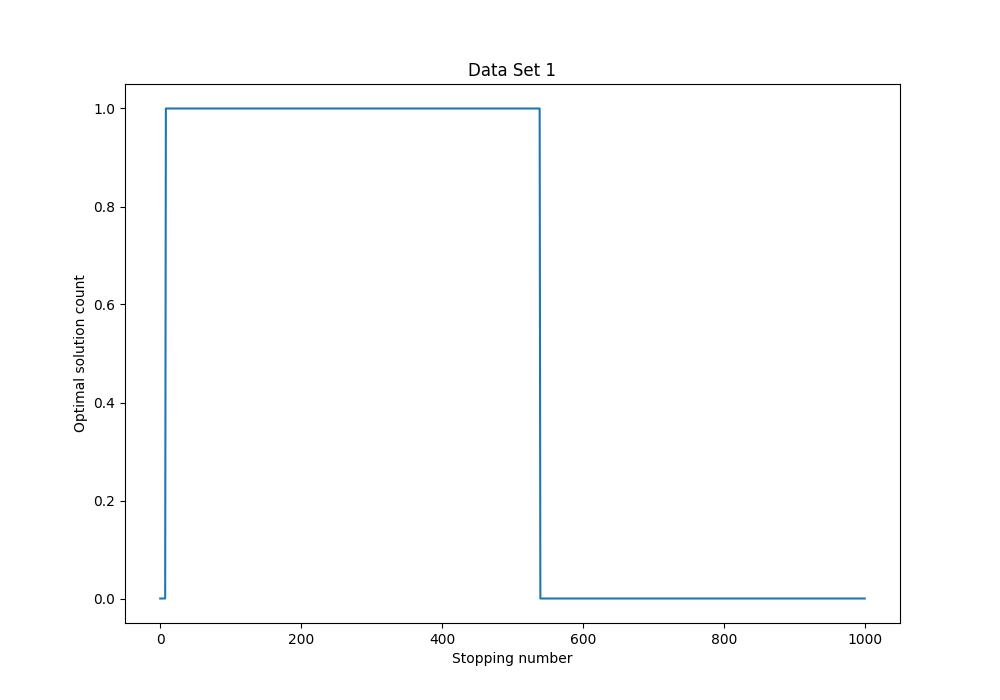
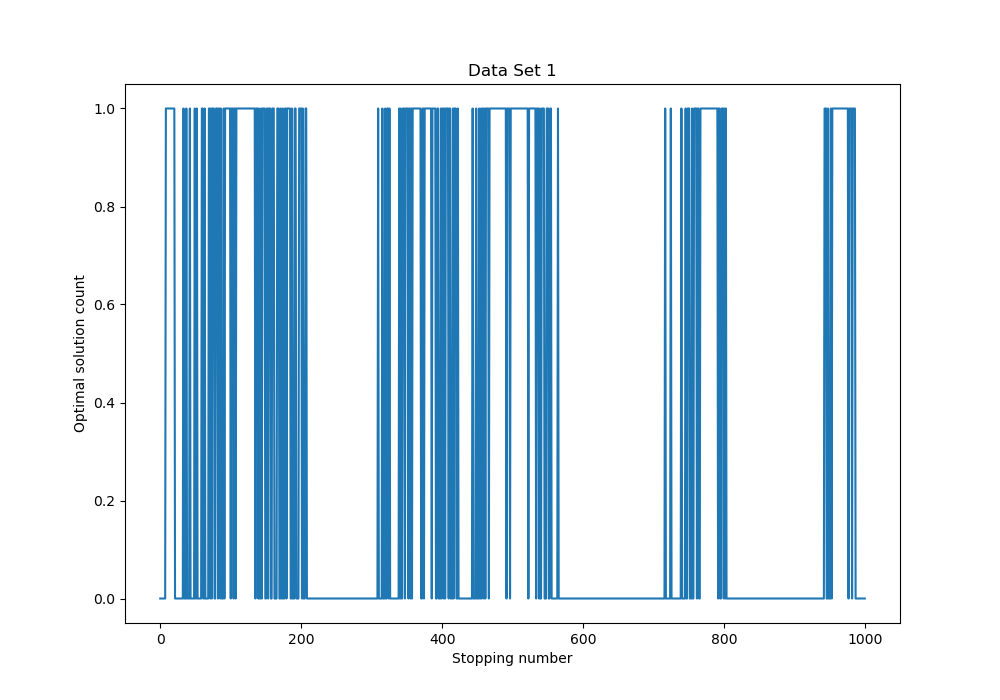
fixed drop through condition for part 1

diff --git a/Assn1/HW1_Grogan_Cody.py b/Assn1/HW1_Grogan_Cody.py
@@ -79,19 +79,14 @@ class OptimalStopper:
             for stopNumber in range(len(scenario) - 1):
                 # Get expected lowest number for stopNumber first elements
                 expectation = max(scenario[:stopNumber+1])
-                
-                sameCount = 0
 
                 # Loop through the remaining data and stop on first number lower than expectation
                 for j in range(stopNumber, len(scenario) - 1):
                     if scenario[j] > expectation:
                         Stops[stopNumber] += 1
                         break
-                    elif scenario[j] == expectation:
-                        if sameCount > 3:
-                            Stops[stopNumber] += 1
-                            break
-                        sameCount += 1
+                    elif np.random.random() < (j - stopNumber)/(len(scenario) - stopNumber - 1):
+                        expectation -= 1
 
                 # If the optimal number was chosen add increment successful stop count
                 if scenario[j] == optimalNumber:
@@ -101,26 +96,21 @@ class OptimalStopper:
 
     def maxBenefitStop(self, scenario: list[int]) -> typing.Tuple[list[int], list[int]]:
         # Set initial stop number, scenario list, and optimal number
-            optimalNumber = max(scenario)
             successfulStops = [0 for i in range(self.numberElements)]
             Stops = [0 for i in range(self.numberElements)]
+            
+            optimalNumber = 0
+            for i in range(len(scenario)):
+                optimalNumber = max(optimalNumber, scenario[i] - (i+1))
             
 
             # Loop through all stop numbers (stop at len - 1 because it has to stop at some point)
             for stopNumber in range(len(scenario) - 1):
                 # Get expected lowest number for stopNumber first elements
-                expectation = max(scenario[:stopNumber+1]) - stopNumber
-                
-                sameCount = 0
-
-                # Loop through the remaining data and stop on first number lower than expectation
-                for j in range(stopNumber, len(scenario) - 1):
-                    if scenario[j] > expectation:
-                        Stops[stopNumber] += 1
-                        break
+                expectation = max(scenario[0:stopNumber+1]) - stopNumber
 
                 # If the optimal number was chosen add increment successful stop count
-                if scenario[j] == optimalNumber:
+                if scenario[stopNumber] == optimalNumber:
                     successfulStops[stopNumber] += 1
 
             return (Stops, successfulStops)
@@ -147,7 +137,7 @@ def getScenario2() -> list[int]:
 
 def problem1():
     elements = 1000
-    iterations = 3000
+    iterations = 1000
 
     solver = OptimalStopper(np.random.uniform, listCount=iterations) 
     print("Optimal Stopping percentages:")
@@ -227,8 +217,6 @@ if __name__ == "__main__":
     problem2()
     
     plt.show()
-    plt.pause(200)
-
 
 
 

diff --git a/Assn1/README.md b/Assn1/README.md
@@ -2,10 +2,8 @@
 # Problem 1
 
 	For the first problem I used what is essentially the vanilla stopping algorithm with a slight addition.
-	This addition allows for better odds of finding the optimal solution in the list by making an "I've seen
-	this before" counter. Meaning, if the algorithm sees the expectation 4 times it selects that as its
-	solution. This allows the algorithm to pick the correct solution if the optimal solution occurs early in
-	the list.
+	This addition essentially randomly lowers the expectation of the stopper as it gets closer to the end of the list.
+	I accomplish this by generating a random number and only decrementing the expectation if it is smaller than the percentage of the list left to select from. This allows the algorithm to pick the correct solution if the optimal solution occurs early in the list for uniform distributions. However this has an adverse effect on randomly shuffled lists as this document will show.
 
 ## Runnning
 		To run the code all that needs to be done is run the HWK file. The main function then calls problem1 
@@ -24,32 +22,25 @@
 
 <img src="Figures/Uniform.png" width="500"/>
 
-The output from the code shows the optimal stopping point of the uniform distribution with the vanilla stopping algorithm of 14 %.
-This makes sense because there is a much higher probability of the optimal solution occurring. This means the optimal solution is likely
-to be in the m first elements quite early in the list.
+The output from the code shows the optimal stopping point of the uniform distribution with the vanilla stopping algorithm of 11 %. This makes sense because if the list is populated 0 to n numbers then all of the numbers are likely to occur in the first n elements. This means the optimal solution is likely to be in the n first elements quite early in the list and thus the stopper should stop early to avoid the optimal number being the expectation.
 
 ### Shuffled List
 
 <img src="Figures/Shuffled.png" width="500"/>
 
-This graph shows the problem as outlined in the slides with a number only occuring once in the list. The code ouputs a optimal stop of 35%
-of the length of the list. This is sufficiently close to the 36.8 % number given by the book. In addition, the probability of selecting the
-optimal number at the best stop is 37 %. This aligns with the answer given by the book.
+This graph shows the problem as outlined in the slides with a number only occuring once in the list. The code ouputs a optimal stop of 31% of the length of the list. This is sufficiently close to the 36.8 % number given by the book. The reason why it is not the exact number is due to the fall through condition for the uniform numbers. In the shuffled list, the no number is the same, so the likelyhood of a number being greater than the expectation is fairly high as their are more options. The fallthrough condition reduces the effectiveness of the shuffled list there is a substantially higher chance that reducing the expectation will cause it to pick a non-optimal solution.
 
 ### Scenario 1
 
 <img src="Figures/DataSet1.png" width="500"/>
 
-This graph shows the same result of Uniform graph but has significantly less resolution because the algorithm was run on a single list.
-As mentioned before, the likelyhood of the optimal solution occuring is much higher in a uniform distribution making the best stopping
-point early in the list.
+This graph shows the same result of Uniform graph but has significantly less resolution because the algorithm was run on a single list. As mentioned before, the likelyhood of the optimal solution occuring is much higher in a uniform distribution making the best stopping point early in the list.
 
 ### Scenario 2
 
 <img src="Figures/DataSet2.png" width="500" />
 
-This graph shows the downfall of using the vanilla stopping algorithm on a single list. The algorithm fails because the algorithm forms and expectation before
-it starts selecting stopping points. Meaning that if the optimal solution occurs early in the list the rule of stopping at 36.8 % will fail to choose the optimal solution.
+This graph shows the downfall of using the vanilla stopping algorithm on a single list. The algorithm fails because the algorithm forms and expectation before it starts selecting stopping points. Meaning that if the optimal solution occurs early in the list the rule of stopping at 36.8 % will fail to choose the optimal solution.
 
 
 
